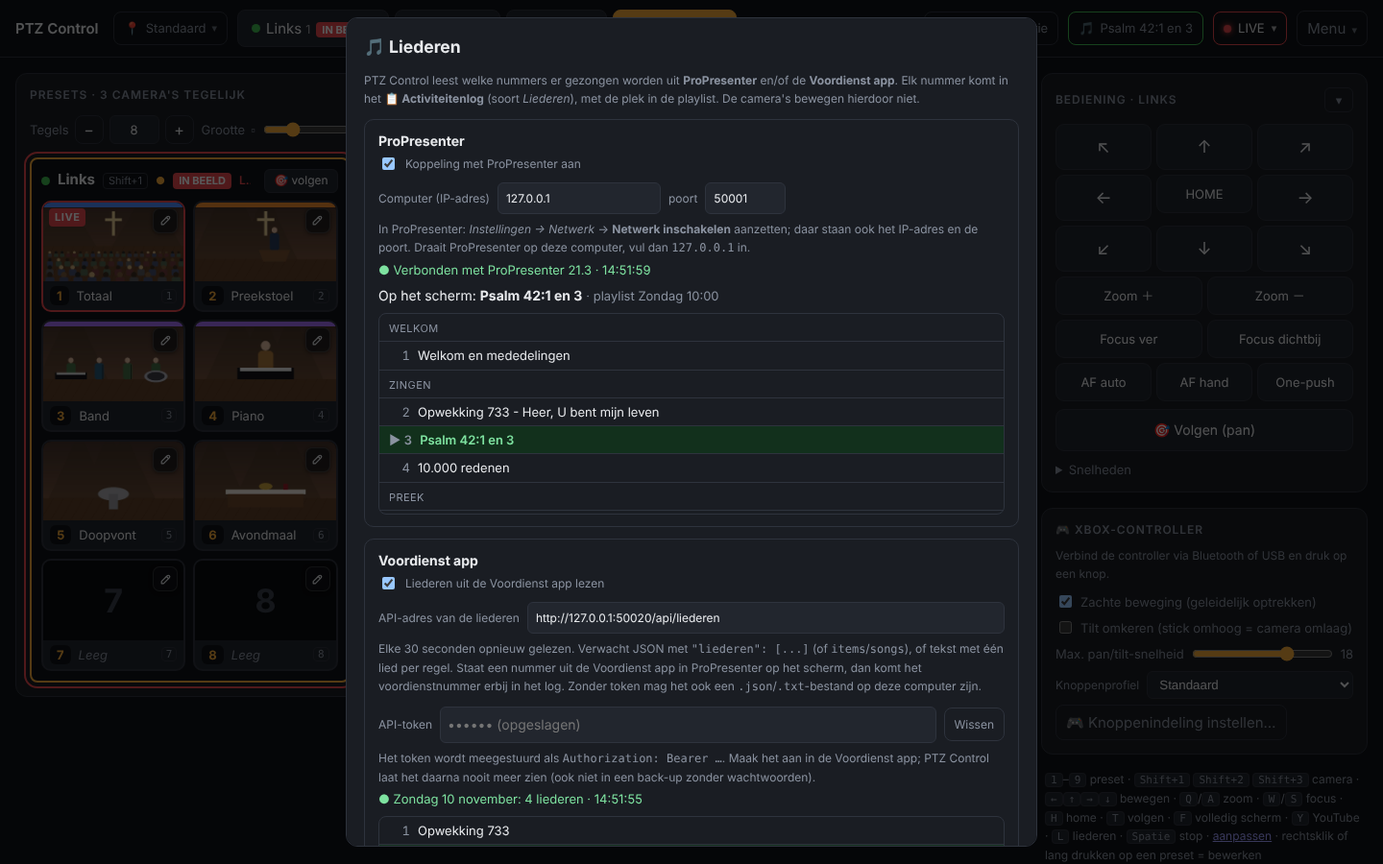
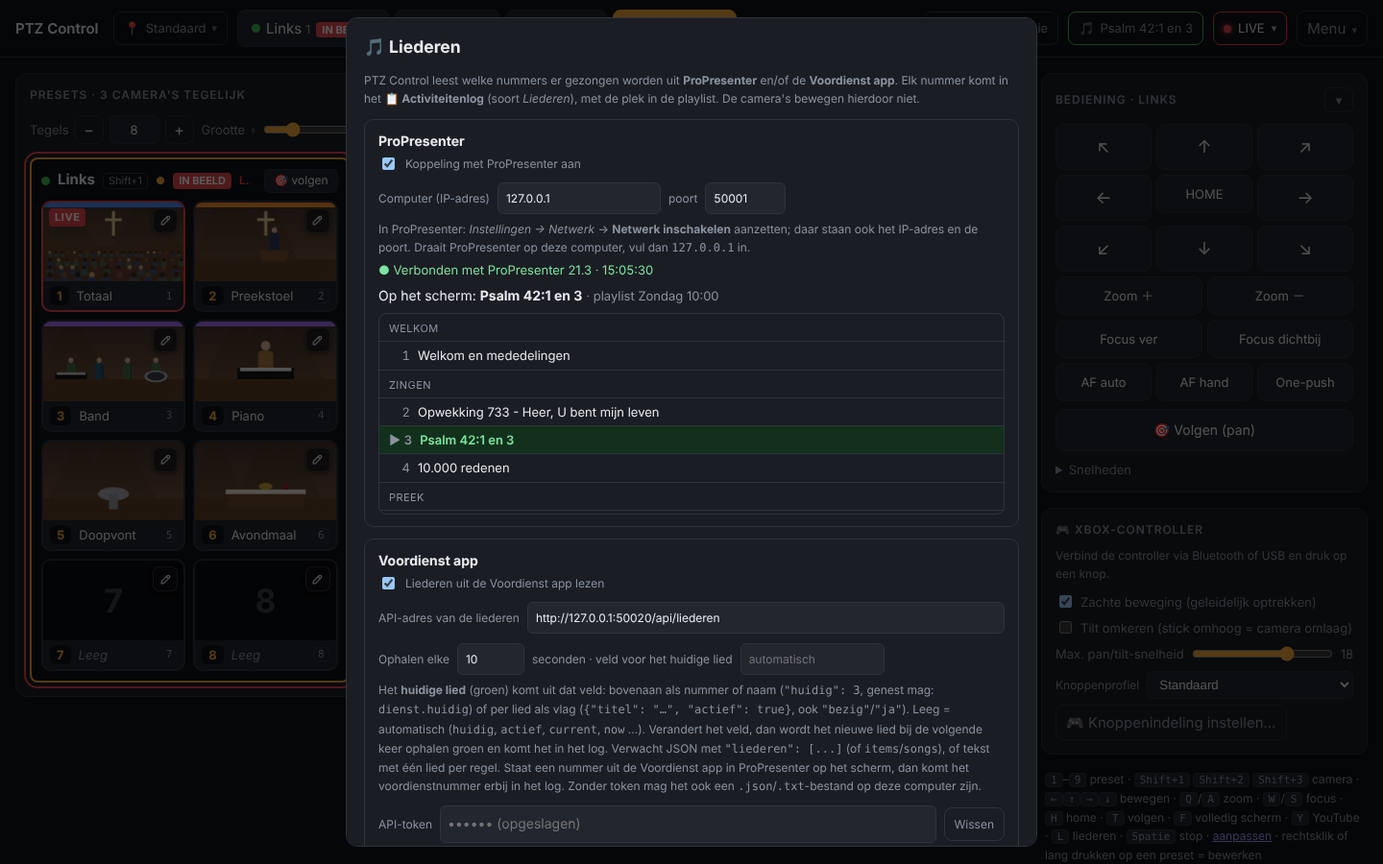
Voordienst app: ophaalfrequentie instelbaar en huidig lied via een veld
- Ophalen elke 2–600 seconden (standaard 10) in plaats van vast 30
- Veld voor het huidige lied: bovenaan (ook genest, bijv. dienst.huidig) of als vlag per lied (actief/status: bezig)
- Verandert het veld, dan wordt het lied groen in het liederenvenster en de instellingen en komt het in het log
- Interval of veld wijzigen geeft geen dubbele logregels; releasenotes v1.0.11

Claude-Session: https://claude.ai/code/session_01UTh5KYCJgEpAXNVLiQf8c3

Changed region(s): [[0.25, 0.7467, 0.7188, 0.9956], [0.6875, 0.9333, 0.7188, 0.9644], [0.4375, 0.3111, 0.4688, 0.3422]]

diff --git a/index.html b/index.html
@@ -899,7 +899,12 @@
     <h4>Voordienst app</h4>
     <label class="small" style="display:flex;gap:8px;align-items:center"><input type="checkbox" id="dbOn"> Liederen uit de Voordienst app lezen</label>
     <div class="row small">API-adres van de liederen <input type="text" id="dbUrl" maxlength="500" placeholder="https://…/api/liederen" style="flex:1;min-width:220px"></div>
-    <div class="small muted" style="margin-top:6px">Elke 30 seconden opnieuw gelezen. Verwacht JSON met <code>"liederen": [...]</code> (of <code>items</code>/<code>songs</code>), of tekst met één lied per regel.
+    <div class="row small">Ophalen elke <input type="number" id="dbInterval" min="2" max="600" style="width:70px"> seconden
+      · veld voor het huidige lied <input type="text" id="dbField" maxlength="60" placeholder="automatisch" style="width:150px" autocomplete="off"></div>
+    <div class="small muted" style="margin-top:6px">Het <b>huidige lied</b> (groen) komt uit dat veld: bovenaan als nummer of naam (<code>"huidig": 3</code>, genest mag: <code>dienst.huidig</code>)
+      of per lied als vlag (<code>{"titel": "…", "actief": true}</code>, ook <code>"bezig"</code>/<code>"ja"</code>). Leeg = automatisch (<code>huidig</code>, <code>actief</code>, <code>current</code>, <code>now</code> …).
+      Verandert het veld, dan wordt het nieuwe lied bij de volgende keer ophalen groen en komt het in het log.
+      Verwacht JSON met <code>"liederen": [...]</code> (of <code>items</code>/<code>songs</code>), of tekst met één lied per regel.
       Staat een nummer uit de Voordienst app in ProPresenter op het scherm, dan komt het voordienstnummer erbij in het log.
       Zonder token mag het ook een <code>.json</code>/<code>.txt</code>-bestand op deze computer zijn.</div>
     <div class="row small">API-token <input type="password" id="dbToken" maxlength="2000" autocomplete="new-password" placeholder="(optioneel)" style="flex:1;min-width:220px">
@@ -3080,9 +3085,11 @@ function songsRender() {
   if (document.activeElement !== $("#ppHost")) $("#ppHost").value = pc.host;
   if (document.activeElement !== $("#ppPort")) $("#ppPort").value = pc.port;
   if (document.activeElement !== $("#dbUrl")) $("#dbUrl").value = dc.url;
+  if (document.activeElement !== $("#dbInterval")) $("#dbInterval").value = dc.interval;
+  if (document.activeElement !== $("#dbField")) $("#dbField").value = dc.field || "";
   if (document.activeElement !== $("#dbToken")) { $("#dbToken").value = ""; $("#dbToken").placeholder = dc.token_set ? "•••••• (opgeslagen)" : "(optioneel)"; }
   $("#dbTokenClear").hidden = !dc.token_set;
-  ["#ppOn", "#ppHost", "#ppPort", "#dbOn", "#dbUrl", "#dbToken", "#dbTokenClear"].forEach(s => $(s).disabled = viewOnly());
+  ["#ppOn", "#ppHost", "#ppPort", "#dbOn", "#dbUrl", "#dbToken", "#dbTokenClear", "#dbInterval", "#dbField"].forEach(s => $(s).disabled = viewOnly());
   const chk = (st) => st.checked ? ` · ${st.checked}` : "";
   if (!pc.enabled) songsStat($("#ppStat"), "off", "Uit.");
   else if (!pc.host) songsStat($("#ppStat"), "err", "Vul het IP-adres van de ProPresenter-computer in.");
@@ -3098,9 +3105,9 @@ function songsRender() {
     : `<li class="${n === ps.pos ? "now" : ""}"><span class="sn">${++n}</span>${esc(i.name)}</li>`).join("");
   if (!dc.enabled) songsStat($("#dbStat"), "off", "Uit.");
   else if (!dc.url) songsStat($("#dbStat"), "err", "Vul het API-adres van de liederen in.");
-  else if (ds.ok) songsStat($("#dbStat"), "ok", `● ${ds.title ? ds.title + ": " : ""}${ds.items.length} lied${ds.items.length === 1 ? "" : "eren"}${chk(ds)}`);
+  else if (ds.ok) songsStat($("#dbStat"), "ok", `● ${ds.title ? ds.title + ": " : ""}${ds.items.length} lied${ds.items.length === 1 ? "" : "eren"}${ds.current != null ? " · huidig nr. " + (ds.current + 1) : ""} · elke ${dc.interval} s${chk(ds)}`);
   else songsStat($("#dbStat"), "err", (ds.error ? "Niet te lezen: " + ds.error : "Lezen…") + chk(ds));
-  const di = dc.enabled && ds.ok ? ds.items : [], cur = ds.playing ?? ds.current;
+  const di = dc.enabled && ds.ok ? ds.items : [], cur = ds.current ?? ds.playing;   // veld uit de Voordienst app gaat voor
   $("#dbList").hidden = !di.length;
   $("#dbList").innerHTML = di.map((t, i) => `<li class="${i === cur ? "now" : ""}"><span class="sn">${i + 1}</span>${esc(t)}</li>`).join("");
 }
@@ -3111,6 +3118,8 @@ $("#ppHost").onchange = (e) => songsSave({ pp: { host: e.target.value.trim() } }
 $("#ppPort").onchange = (e) => songsSave({ pp: { port: +e.target.value } });
 $("#dbOn").onchange = (e) => songsSave({ voordienst: { enabled: e.target.checked } });
 $("#dbUrl").onchange = (e) => songsSave({ voordienst: { url: e.target.value.trim() } });
+$("#dbInterval").onchange = (e) => songsSave({ voordienst: { interval: Math.max(2, Math.min(600, +e.target.value || 10)) } });
+$("#dbField").onchange = (e) => songsSave({ voordienst: { field: e.target.value.trim() } });
 $("#dbToken").onchange = (e) => { if (e.target.value.trim()) songsSave({ voordienst: { token: e.target.value.trim() } }).then(() => { e.target.value = ""; }); };
 $("#dbTokenClear").onclick = () => songsSave({ voordienst: { token_clear: true } });
 $("#songsCheck").onclick = async () => {
@@ -3137,7 +3146,7 @@ function songLists() {
       cur: ps.pos, now: ps.current?.name || "" };
   }
   if (ds.enabled && ds.ok) out.vd = { label: "Voordienst app" + (ds.title ? " · " + ds.title : ""),
-    items: ds.items.map((t, i) => ({ name: t, n: i + 1 })), cur: ds.playing ?? ds.current, now: "" };
+    items: ds.items.map((t, i) => ({ name: t, n: i + 1 })), cur: ds.current ?? ds.playing, now: "" };
   return out;
 }
 function songWinRender() {
@@ -3156,7 +3165,8 @@ function songWinRender() {
   const cur = src ? L[src] : null;
   const songsOnly = cur ? cur.items.filter(i => !i.header) : [];
   const i = cur?.cur;
-  const nowName = ppNow || (i != null && songsOnly[i] ? songsOnly[i].name : "");
+  const own = i != null && songsOnly[i] ? songsOnly[i].name : "";
+  const nowName = src === "pp" ? (ppNow || own) : (own || ppNow);   // Voordienst-lijst: het veld uit de app gaat voor
   const next = i != null ? songsOnly[i + 1] : null;
   songWin.classList.toggle("on", !!nowName);
   $("#songBadge").textContent = nowName ? "NU" : "LIEDEREN";

diff --git a/liederen.py b/liederen.py
@@ -30,18 +30,19 @@ import urllib.request
 
 POLL_PP = 2          # s, ProPresenter (huidig nummer)
 POLL_PP_LIST = 30    # s, playlist-inhoud opnieuw ophalen
-POLL_DB = 30         # s, Voordienst app
+POLL_DB = 10         # s, Voordienst app (standaard; instelbaar 2–600 via voordienst.interval)
 TIMEOUT = 3
 MAX_ITEMS = 100
 
 DEFAULTS = {"pp": {"enabled": False, "host": "", "port": 50001},
-            "voordienst": {"enabled": False, "url": "", "token": ""}}
+            "voordienst": {"enabled": False, "url": "", "token": "", "interval": POLL_DB, "field": ""}}
 WHO = "Voordienst app"
 
 LIST_KEYS = ("liederen", "nummers", "songs", "items", "playlist", "lijst", "lied")
 TITLE_KEYS = ("titel", "title", "naam", "name", "dienst", "datum", "date")
 NAME_KEYS = ("titel", "title", "naam", "name", "lied", "song", "nummer", "tekst", "text")
 CUR_KEYS = ("huidig", "current", "actief", "active", "nu", "now")
+FLAG_TRUE = ("true", "1", "ja", "yes", "actief", "active", "huidig", "current", "nu", "now", "bezig", "live", "playing", "gezongen")
 SONG_TYPES = ("lied", "liederen", "song", "zang", "nummer", "worship", "aanbidding")
 
 
@@ -62,7 +63,33 @@ def norm_cfg(m):
         port = DEFAULTS["pp"]["port"]
     return {"pp": {"enabled": bool(pp.get("enabled")), "host": host, "port": port},
             "voordienst": {"enabled": bool(db.get("enabled")), "url": str(db.get("url") or "").strip()[:500],
-                           "token": re.sub(r"^\s*bearer\s+", "", str(db.get("token") or ""), flags=re.I).strip()[:2000]}}
+                           "token": re.sub(r"^\s*bearer\s+", "", str(db.get("token") or ""), flags=re.I).strip()[:2000],
+                           "interval": _clamp_int(db.get("interval"), 2, 600, POLL_DB),
+                           "field": re.sub(r"[^\w.\-]", "", str(db.get("field") or ""))[:60]}}
+
+
+def _clamp_int(v, lo, hi, default):
+    try:
+        return max(lo, min(hi, int(v)))
+    except (TypeError, ValueError):
+        return default
+
+
+def _truthy(v):
+    if isinstance(v, bool):
+        return v
+    if isinstance(v, (int, float)):
+        return v != 0
+    return isinstance(v, str) and v.strip().lower() in FLAG_TRUE
+
+
+def _get_path(d, path):
+    """Veld ophalen, ook genest met punten (bijv. "dienst.huidig")."""
+    for part in path.split("."):
+        if not isinstance(d, dict) or part not in d:
+            return None
+        d = d[part]
+    return d
 
 
 def public_cfg(cfg):
@@ -121,8 +148,13 @@ def _item_name(x):
     return ""
 
 
-def parse_voordienst(text):
-    """→ {title, items: [namen], current: index|None}. Gooit ValueError als er niets bruikbaars in staat."""
+def parse_voordienst(text, field=""):
+    """→ {title, items: [namen], current: index|None}. Gooit ValueError als er niets bruikbaars in staat.
+
+    🧑 Huidig lied ("triggeren op verandering van een veld"): met ``field`` ingesteld telt alleen dat veld, óf bovenaan
+    (index vanaf 1 of naam; mag genest zijn, bijv. ``dienst.huidig``) óf per lied als vlag (``{"titel": …, "actief": true}``,
+    ook "ja"/"bezig"/1). Zonder ``field``: automatisch ``huidig|current|actief|active|nu|now`` bovenaan of als vlag per lied.
+    Een index telt alleen de liederen (na het wegfilteren van mededelingen/preek)."""
     text = (text or "").lstrip("")
     data = None
     if text.strip()[:1] in ("[", "{"):
@@ -151,9 +183,10 @@ def parse_voordienst(text):
             if isinstance(data.get(k), list):
                 raw = data[k]
                 break
-        for k in CUR_KEYS:
-            if k in data and data[k] not in (None, ""):
-                cur = data[k]
+        for k in ((field,) if field else CUR_KEYS):
+            v = _get_path(data, k) if field else data.get(k)
+            if v not in (None, "") and not isinstance(v, bool):
+                cur = v
                 break
         if raw is None:
             raise ValueError("geen lijst met liederen gevonden (verwacht bijv. \"liederen\": [...])")
@@ -162,10 +195,18 @@ def parse_voordienst(text):
     typed = [x for x in raw if isinstance(x, dict) and (x.get("type") or x.get("soort"))]
     if typed and any(str(x.get("type") or x.get("soort")).lower() in SONG_TYPES for x in typed):
         raw = [x for x in raw if not isinstance(x, dict) or str(x.get("type") or x.get("soort") or "lied").lower() in SONG_TYPES]
-    items = [n[:120] for n in (_item_name(x) for x in raw) if n][:MAX_ITEMS]
+    kept = [x for x in raw if _item_name(x)][:MAX_ITEMS]
+    items = [_item_name(x)[:120] for x in kept]
     if not items:
         raise ValueError("geen liederen gevonden")
     idx = None
+    # vlag per lied (laatste die aan staat telt, voor het geval er per ongeluk meer aan staan)
+    flag_keys = (field,) if field else CUR_KEYS
+    for i, x in enumerate(kept):
+        if isinstance(x, dict) and any(_truthy(x.get(k)) for k in flag_keys if k in x):
+            idx = i
+    if idx is not None:
+        return {"title": title[:120], "items": items, "current": idx}
     if isinstance(cur, bool):
         cur = None
     if isinstance(cur, int) or (isinstance(cur, str) and cur.strip().isdigit()):
@@ -351,19 +392,23 @@ class Watcher:
                 if old is None or old["pp"] != cfg["pp"]:
                     self.state["pp"] = self._empty()["pp"]
                     self._logged = {"pl": None, "cur": None}
-                if old is None or old["voordienst"] != cfg["voordienst"]:
+                src = lambda c: {k: c["voordienst"][k] for k in ("enabled", "url", "token")}   # interval/veld: geen nieuwe lijst
+                if old is None or src(old) != src(cfg):
                     self.state["voordienst"] = self._empty()["voordienst"]
                 self.state["pp"]["enabled"] = cfg["pp"]["enabled"]
                 self.state["voordienst"]["enabled"] = cfg["voordienst"]["enabled"]
             self._emit()
         now = time.time()
-        if cfg["voordienst"]["enabled"] and now - self._db_at >= POLL_DB:
+        if cfg["voordienst"]["enabled"] and now - self._db_at >= cfg["voordienst"]["interval"] - 0.05:
             self._db_at = now
             self._check_db(cfg["voordienst"])
+        waits = [3600]
         if cfg["pp"]["enabled"]:
             self._check_pp(now)
-            return POLL_PP
-        return min(POLL_DB, 3600) if cfg["voordienst"]["enabled"] else 3600
+            waits.append(POLL_PP)
+        if cfg["voordienst"]["enabled"]:
+            waits.append(max(0.5, cfg["voordienst"]["interval"] - (time.time() - self._db_at)))
+        return min(waits)
 
     def _emit(self):
         self.on_state(self.snapshot())
@@ -379,7 +424,7 @@ class Watcher:
         new = {"checked": time.strftime("%H:%M:%S")}
         quiet = not vc["url"]    # nog aan het instellen (geen adres): geen fout in het log
         try:
-            d = parse_voordienst(read_source(vc["url"], vc["token"] or None))
+            d = parse_voordienst(read_source(vc["url"], vc["token"] or None), vc["field"])
             new.update(ok=True, error=None, **d)
         except ValueError as e:
             new.update(ok=False, error=str(e))

diff --git a/CLAUDE.md b/CLAUDE.md
@@ -262,13 +262,14 @@ Legenda: ✅ geverifieerd (getest of in officiële docs gevonden) · ⚠ aann
 ## 9c. Liederen: ProPresenter + Voordienst app → activiteitenlog (op verzoek, 10 nov 2026)
 
 - 🧑 Gevraagd: "integratie voor API's, bijv. playlist van nummers die gezongen worden". 🧑 Bronnen: **ProPresenter** en de **Voordienst app** (🧑 heette eerst "draaiboek": **niet meer zo noemen**, ook niet in UI/log; `norm_cfg` leest een oude `draaiboek`-sectie nog wel). 🧑 Functie: **alleen in het activiteitenlog** (geen preset per lied, geen voorstellen, geen paneel op het hoofdscherm; niet toevoegen zonder vraag). Camera's bewegen hierdoor nooit.
-- `liederen.py` (stdlib): `Watcher` in `LD`, thread `liederen`; ProPresenter elke `POLL_PP` (2 s), playlist-inhoud elke 30 s of bij een andere playlist, Voordienst app elke `POLL_DB` (30 s). Logt via `ACTLOG.add(msg, kind, who)` met `who` = `ProPresenter` / `Voordienst app`, `kind` = `lied` (nummers, playlist, liederen geladen), `systeem` (verbonden) of `fout` (niet bereikbaar / niet te lezen, alleen bij overgang; niet zolang er nog geen adres is ingevuld). Nieuwe soort `lied` in `actlog.KINDS` en het logfilter (*Liederen*).
+- `liederen.py` (stdlib): `Watcher` in `LD`, thread `liederen`; ProPresenter elke `POLL_PP` (2 s), playlist-inhoud elke 30 s of bij een andere playlist, Voordienst app elke `voordienst.interval` s (🧑 instelbaar 2–600, standaard `POLL_DB` = 10; de lus wacht `min(2 s als ProPresenter aan, resterende tijd tot de volgende Voordienst-ronde)`). Logt via `ACTLOG.add(msg, kind, who)` met `who` = `ProPresenter` / `Voordienst app`, `kind` = `lied` (nummers, playlist, liederen geladen), `systeem` (verbonden) of `fout` (niet bereikbaar / niet te lezen, alleen bij overgang; niet zolang er nog geen adres is ingevuld). Nieuwe soort `lied` in `actlog.KINDS` en het logfilter (*Liederen*).
 - ✅ **ProPresenter-API** (officieel sinds 7.9, spec gecontroleerd via de gespiegelde `pro7.9.openapi-spec.json` van jeffmikels/ProPresenter-API; de oudere `/active`-vorm uit release notes en een open-source project). Alleen GET's: `/version`, `/v1/presentation/active` (7.9: `/current`) → `presentation.id {uuid,name,index}`, `/v1/playlist/active` → `{presentation: {playlist, item}}` (7.9: `/current` → `{uuid,name,index}`), `/v1/playlist/{uuid}` → `items[{id{name,uuid,index}, type: presentation|header}]`. `get_any` probeert active → current bij 404 en onthoudt welke werkt. ⚠ **Niet getest met een echte ProPresenter**, alleen met `docs/tools/nep_propresenter.py` (beide varianten). Standaardpoort 50001 is een gok: de poort staat in ProPresenter (*Instellingen → Netwerk*).
 - Logregels: verbonden; *Playlist: <naam> (n items): a; b; …* bij een andere playlist of andere inhoud; *▶ <presentatie> (k van n in <playlist>, voordienst nr. m)* bij een andere presentatie. 🧑 Geen dubbele regels: `_logged` onthoudt de laatst gelogde playlist/presentatie, ook over een leeg scherm (`presentation: null`) of verbindingsonderbreking heen; alleen een andere ProPresenter-instelling wist dat. Plek in de playlist via uuid, anders naam (`match`). Alles wat ProPresenter toont telt (ook mededelingen/preek): ProPresenter zegt niet wat een lied is.
 - 🧑 **Voordienst app met bearer token** (op verzoek; een eerst gebouwde OAuth 2.0-flow met PKCE is op verzoek weer vervangen door een vast token, niet terugzetten zonder vraag): `read_source(url, token)` stuurt `Authorization: Bearer <token>`; met token alleen http(s). `cfg.liederen.voordienst.token` (een geplakte `Bearer `-prefix wordt weggehaald). **Token is een geheim**: `GET /api/liederen` en `GET /api/config` geven alleen `token_set` (`public_cfg`), `POST /api/liederen/config` zet hem alleen bij een nieuwe waarde (`token`) of `token_clear: true`; een back-up zonder wachtwoorden laat hem weg en terugzetten houdt dan het huidige token. 401 → *HTTP 401 (token ontbreekt, is ongeldig of verlopen)*. ⚠ De echte API van de Voordienst app (adres, formaat) is **niet bekend**; alleen getest met `docs/tools/nep_voordienst.py`.
+- 🧑 **Huidig lied via een veld** ("triggeren op verandering van een veld", 10 nov 2026): `voordienst.field` (letters/cijfers/`_.-`, max. 60). `parse_voordienst(text, field)`: eerst een **vlag per lied** (`item[field]` truthy: `true`, getal ≠ 0, of tekst in `FLAG_TRUE` zoals ja/actief/bezig/live; bij meer → de laatste), anders het veld **bovenaan** (genest met punten via `_get_path`, index vanaf 1 of naam). Leeg veld = automatisch met `CUR_KEYS` (beide vormen). Index telt alleen de liederen na het type-filter. Groen in UI = `current` (veld uit de app) gaat vóór `playing` (match met ProPresenter). Wijziging van `interval`/`field` wist de lijst niet (alleen `enabled`/`url`/`token`), dus geen dubbele *Liederen geladen*. ✅ Getest (Playwright + bestand, interval 2 s): vlag `status: bezig` verplaatst → groen in venster en dialoog binnen ~1 s na de ronde, *▶*-regel in het log; genest veld, automatisch, interval/veld wijzigen zonder dubbele logregels.
 - **Formaat** (`parse_voordienst`): JSON-lijst of object met `liederen|nummers|songs|items|playlist|lijst`, titel `titel|title|naam|name|dienst|datum`, optioneel `huidig|current|actief|active|nu|now` (index vanaf 1 of naam); items tekst of object (`titel|title|naam|name|lied|song|nummer|tekst`); met `type`/`soort` alleen lied/song/zang/nummer/aanbidding als die voorkomen. Tekst: één per regel, `#`-regels en nummering/opsommingstekens weg. Max. 100 items. Zonder token mag de bron ook een lokaal bestand zijn, ⚠ **alleen `.json`/`.txt`** (de server leest het; iedereen met bedienrecht kan het pad zetten). Koppeling ProPresenter ↔ Voordienst app: `match()` = gelijk na normaliseren (kleine letters, alleen letters/cijfers), of de een bevat de ander **op woordgrenzen** (min. 4 tekens; "psalm 1" ≠ "psalm 134"). Log: *Liederen geladen: <titel> (n liederen): …* bij nieuwe/andere lijst, *▶ … (k van n in de Voordienst app)* als `huidig` verandert.
-- Config `cfg.liederen = {pp: {enabled, host, port}, voordienst: {enabled, url, token}}` (per workspace, in back-ups), `norm_cfg` (host mag `http://ip:poort/` zijn). **Alleen via `POST /api/liederen/config`** (per sectie samengevoegd); `POST /api/config` behoudt altijd de bestaande `liederen`. API: `GET /api/liederen` (status + `config` zonder token), `POST /api/liederen/check` (meteen opnieuw, synchroon; niet gelogd). SSE `liederen` = `{pp: {enabled, connected, error, version, current, playlist, items, pos, checked}, voordienst: {enabled, ok, error, title, items, current, playing, checked}}`, alleen bij wijziging. Workspace wisselen → `LD.refresh()` (geen herhaalde logregels als de instellingen gelijk zijn).
-- UI: menu 🎵 Liederen (`#btnSongs`) = instellingen, dialoog `#dlgSongs` (`songsRender`): ProPresenter aan/uit, IP + poort, status, *Op het scherm*, playlist (`#ppList`, huidig groen); Voordienst app aan/uit, API-adres (`#dbUrl`), API-token (`#dbToken`, wachtwoordveld, placeholder *opgeslagen*, `#dbTokenClear`), status, liederen (`#dbList`, huidig = `playing` uit ProPresenter, anders `huidig`); ↻ Nu controleren, 📋 In het log bekijken (log met filter *Liederen*). In alleen-kijken zijn de velden uitgeschakeld.
+- Config `cfg.liederen = {pp: {enabled, host, port}, voordienst: {enabled, url, token, interval, field}}` (per workspace, in back-ups), `norm_cfg` (host mag `http://ip:poort/` zijn). **Alleen via `POST /api/liederen/config`** (per sectie samengevoegd); `POST /api/config` behoudt altijd de bestaande `liederen`. API: `GET /api/liederen` (status + `config` zonder token), `POST /api/liederen/check` (meteen opnieuw, synchroon; niet gelogd). SSE `liederen` = `{pp: {enabled, connected, error, version, current, playlist, items, pos, checked}, voordienst: {enabled, ok, error, title, items, current, playing, checked}}`, alleen bij wijziging. Workspace wisselen → `LD.refresh()` (geen herhaalde logregels als de instellingen gelijk zijn).
+- UI: menu 🎵 Liederen (`#btnSongs`) = instellingen, dialoog `#dlgSongs` (`songsRender`): ProPresenter aan/uit, IP + poort, status, *Op het scherm*, playlist (`#ppList`, huidig groen); Voordienst app aan/uit, API-adres (`#dbUrl`), ophaalfrequentie (`#dbInterval`), veld voor het huidige lied (`#dbField`), API-token (`#dbToken`, wachtwoordveld, placeholder *opgeslagen*, `#dbTokenClear`), status, liederen (`#dbList`, groen = `current` uit het veld van de app, anders `playing` uit ProPresenter); ↻ Nu controleren, 📋 In het log bekijken (log met filter *Liederen*). In alleen-kijken zijn de velden uitgeschakeld.
 - 🧑 **Liederenvenster** (op verzoek, "net zoiets als de YouTube-viewer"; alleen UI): knop `#btnSongBar` in de kop (vóór YouTube, alleen zichtbaar als ProPresenter of de Voordienst app aan staat; groene rand + titel = presentatie op het scherm), toets **L** (`KEY_ACTIONS.songs`), venster `#songWin` (`songWinRender()` bij elke SSE `liederen` en bij het laden via `GET /api/liederen`): kop met badge **NU**, bron, ⇄ (`#songSrcBtn`, alleen als beide bronnen een lijst hebben; `localStorage.songSrc` = `pp`/`vd`), ⚙ (opent `#dlgSongs`), ✕; daaronder *Nu* (ProPresenter-presentatie, anders `huidig`/`playing` uit de Voordienst app) en *Hierna*, de lijst (`#songWinList`, huidig groen en in beeld gescrold) en *bijgewerkt*. Slepen aan `#songHead`, schalen met `#songGrip` (breedte én hoogte, min. 220×140). Per apparaat via `store` (dus per workspace): `songGeom {x,y,w,h}` (zonder x: rechtsonder), `songOpen`. Geen automatische plaatsing zoals YouTube (kan dus over tegels of het YouTube-venster liggen; zelf verslepen). Ook zichtbaar op volledig scherm. Nog niets ingesteld → L/knop opent `#dlgSongs`. ✅ Getest (Playwright): knoptitel live, L/knop/✕, Nu/Hierna wisselen via SSE, ⇄, slepen + schalen + herladen (plek en open blijven), volledig scherm; rondleiding 38 stappen zonder meldingen.
 - ✅ Getest (API + Playwright, nep-ProPresenter nieuw en `--oud`, nep-Voordienst app): verbinden, playlist + nummers met plek en voordienstnummer, presentatie buiten de playlist, andere playlist, leeg scherm → zelfde lied niet dubbel, verkeerde poort → fout in gewone taal en terug; geen/fout/goed token (401 → lijst), token niet zichtbaar via GET's, token ingetrokken → fout, wissen, nieuw token; back-up zonder wachtwoorden zonder token en terugzetten houdt het token; `/api/config` wist niets; `/etc/passwd` geweigerd; rondleiding 35 stappen zonder meldingen.
 

diff --git a/README.md b/README.md
@@ -252,12 +252,13 @@ De koppeling geldt voor alle schermen en wordt per workspace en in de back-up be
 Met Menu → **🎵 Liederen (ProPresenter)** ziet PTZ Control welke nummers er gezongen worden. Elk nummer komt in het **📋 Activiteitenlog** (filter *Liederen*), met de plek in de playlist en het nummer uit de Voordienst app. De camera's bewegen hierdoor niet.
 
 - **ProPresenter**: zet in ProPresenter *Instellingen → Netwerk* → **Netwerk inschakelen** aan. Vul in PTZ Control het IP-adres van die computer en de poort in (staan in hetzelfde ProPresenter-scherm; `127.0.0.1` als ProPresenter op dezelfde computer draait). PTZ Control kijkt elke 2 seconden welke presentatie op het scherm staat en welke playlist actief is. In het log: *Playlist: Zondag 10:00 (7 items): …* en per nummer *▶ Opwekking 733 – … (2 van 7 in Zondag 10:00, voordienst nr. 1)*. Hetzelfde nummer na een leeg scherm komt er niet twee keer in. Werkt met ProPresenter 7.9 en nieuwer; PTZ Control vraagt alleen informatie op en wijzigt niets in ProPresenter.
-- **Voordienst app**: vul het **API-adres** van de liederen in (`https://…`) en het **API-token** dat je in de Voordienst app aanmaakt. PTZ Control stuurt het mee als `Authorization: Bearer <token>` en leest de lijst elke 30 seconden opnieuw. Het token wordt na het opslaan nooit meer getoond (ook niet aan andere schermen) en zit niet in een back-up zonder wachtwoorden; met **Wissen** haal je het weg. Bij een nieuwe of gewijzigde lijst komt *Liederen geladen: … (n liederen): …* in het log; een ongeldig of verlopen token geeft een fout (*HTTP 401*). Verwacht formaat:
+- **Voordienst app**: vul het **API-adres** van de liederen in (`https://…`) en het **API-token** dat je in de Voordienst app aanmaakt. PTZ Control stuurt het mee als `Authorization: Bearer <token>` en leest de lijst opnieuw met de ingestelde **ophaalfrequentie** (standaard elke 10 seconden, instelbaar van 2 tot 600). Het token wordt na het opslaan nooit meer getoond (ook niet aan andere schermen) en zit niet in een back-up zonder wachtwoorden; met **Wissen** haal je het weg. Bij een nieuwe of gewijzigde lijst komt *Liederen geladen: … (n liederen): …* in het log; een ongeldig of verlopen token geeft een fout (*HTTP 401*). Verwacht formaat:
   ```json
   {"titel": "Zondag 10 november",
    "liederen": ["Opwekking 733", "Psalm 42:1 en 3", "10.000 redenen"],
    "huidig": 2}
   ```
+  **Huidig lied (groen)**: vul bij *veld voor het huidige lied* in welk veld de Voordienst app gebruikt. Dat mag een veld bovenaan zijn met het nummer of de naam (`"huidig": 2`, genest mag ook: `dienst.huidig`), of een vlag per lied (`{"titel": "Psalm 42", "status": "bezig"}` met veld `status`, of `"actief": true`; ook `ja`, `1`, `live` tellen). Leeg = automatisch (`huidig`, `actief`, `current`, `now` …). Verandert het veld, dan springt de groene markering bij de volgende keer ophalen naar het nieuwe lied (in het liederenvenster en het instellingenvenster) en komt er een *▶*-regel in het log. Het nummer telt alleen de liederen, niet de mededelingen of de preek.
   `liederen` mag ook `items`, `songs` of `nummers` heten, en de items mogen objecten zijn (`{"type": "lied", "titel": "…"}`; staan er ook andere soorten in, dan tellen alleen de liederen). `huidig` (nummer vanaf 1, of de naam) is optioneel. Tekst met één lied per regel werkt ook, en zonder token mag het ook een `.json`/`.txt`-bestand op deze computer zijn.
 - **Liederenvenster** (net als het YouTube-venster): zodra er iets gekoppeld is, staat in de kop een knop **🎵** met het nummer dat nu op het scherm staat. Klik erop, of druk op **L**, voor een klein venster met **Nu**, **Hierna** en de hele playlist (het huidige nummer groen). Verslepen aan de titelbalk, groter maken met het hoekje rechtsonder; elk scherm onthoudt zijn eigen plek en of het venster open was. Met **⇄** wissel je tussen de playlist uit ProPresenter en de lijst uit de Voordienst app, met **⚙** open je de instellingen. Werkt ook op volledig scherm.
 - Het instellingenvenster toont de playlist en de liederen uit de Voordienst app met het nummer dat nu op het scherm staat. **↻ Nu controleren** leest beide meteen opnieuw; **📋 In het log bekijken** opent het log met alleen de liederen.

diff --git a/docs/releasenotes/v1.0.11.md b/docs/releasenotes/v1.0.11.md
@@ -1,0 +1,5 @@
+## Nieuw in deze versie
+- Liederenvenster (knop 🎵 in de kop of toets L): Nu, Hierna en de playlist in een klein, verplaatsbaar venster
+- Huidig lied uit de Voordienst app: kies het veld (bijv. huidig, actief of status) en het lied wordt groen zodra dat verandert
+- Ophaalfrequentie van de Voordienst app instelbaar (standaard elke 10 seconden, 2 tot 600)
+- Wisselen tussen de playlist uit ProPresenter en de lijst uit de Voordienst app met ⇄
